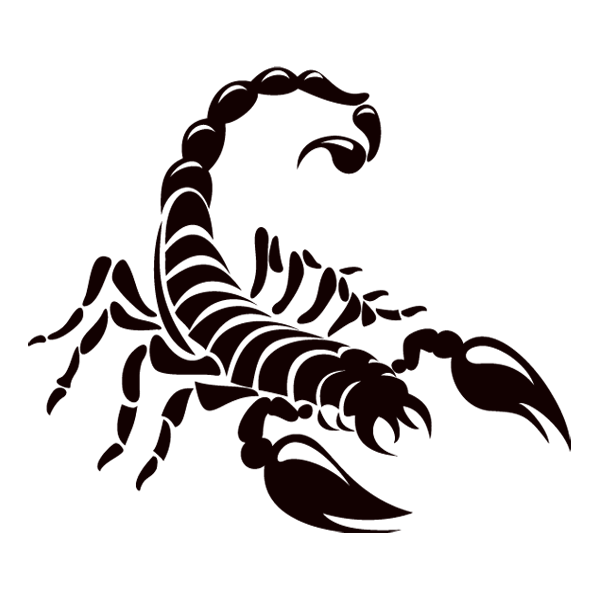
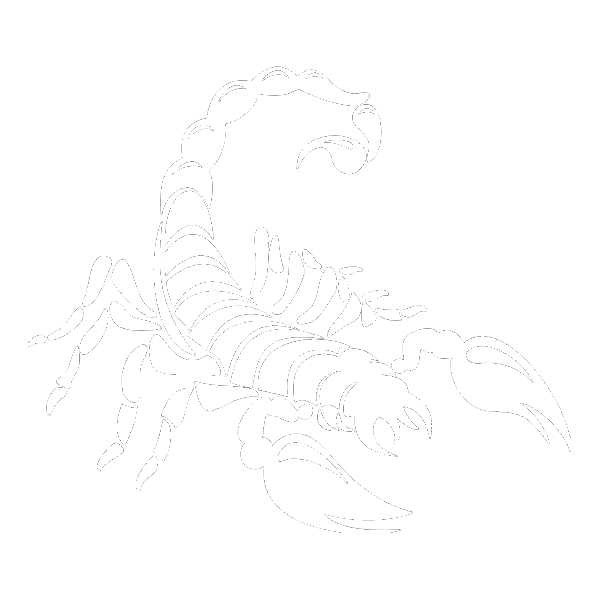
css header, footer, about me, contact, sidebar

Changed region(s): [[0.06, 0.09, 0.96, 0.9], [0.63, 0.75, 0.66, 0.78]]

diff --git a/src/components/main/Contact.js b/src/components/main/Contact.js
@@ -3,29 +3,38 @@ import styles from './contact.css';
 import github from '../../../assets/github.png';
 import email from '../../../assets/mail.png';
 import linkedin from '../../../assets/linkedin.png';
-import face from '../../../assets/face.jpg';
+// import face from '../../../assets/face.jpg';
 
 const Contact = () => {
   return (
     <div className={styles.Contact}>
-      <a href="https://github.com/UncleJerry23" target="blank">
-        <img src={github} />
-        <h2>github.com/UncleJerry23</h2>
-      </a>
-      <a href="https://www.linkedin.com/in/jaredmyhrberg/" target="blank">
-        <img src={email} />
-        <h2>jared.myhrberg@gmail.com</h2>
-      </a>
-      <a href="https://www.linkedin.com/in/jaredmyhrberg/" target="blank">
-        <img src={linkedin} />
-        <h2>linkedin.com/in/jaredmyhrberg/</h2>
-      </a>
-      <a href="https://drive.google.com/file/d/1LsmfQAmLWltdzJFwCH5PdCBtl6EiKkOT/view" target="blank">
-        <img src={face} />
-        <h2>Resume</h2>
-      </a>
+      <section>
+        <a href="https://github.com/UncleJerry23" target="blank">
+          <img src={github} />
+        </a>
+        <a href="https://www.linkedin.com/in/jaredmyhrberg/" target="blank">
+          <img src={linkedin} />
+        </a>
+        <a href="mailto:jared.myhrberg@gmail.com" target="blank">
+          <img src={email} />
+        </a>
+      </section>
+
+      <div>
+        <p>
+          If you&rsquo;d like to hire me for a software position, commission a rad woodworking project or for any other reason please feel free to email me or message me on LinkedIn by using the links to the left.
+        </p>
+        <p>
+          Thanks for stopping by!
+        </p>
+      </div>
     </div>
   );
 };
 
 export default Contact;
+
+
+{/* <a href="https://drive.google.com/file/d/1LsmfQAmLWltdzJFwCH5PdCBtl6EiKkOT/view" target="blank">
+<img src={face} />
+</a> */}

diff --git a/src/components/main/contact.css b/src/components/main/contact.css
@@ -1,29 +1,47 @@
 .Contact {
-  display: flex;
-  flex-direction: column;
-  justify-content: center;
-  width: 100%;
+  display: grid;
+  grid-auto-columns: 10% 1fr;
   height: 100%;
+  width: 100%;
 
-  a {
+  section {
     display: flex;
-    align-items: center;
-    height: 6em;
-    margin: 1em;
-    margin-left: 3em;
-    text-decoration: none;
-    color: black;
+    flex-direction: column;
+    justify-content: center;
+    width: 100%;
+    height: 100%;
 
-    &:hover {
-      transform: scale(1.03);
+    a {
+      display: flex;
+      align-items: center;
+      height: 6em;
+      margin: 1em;
+      margin-left: 3em;
+      text-decoration: none;
+      color: black;
+  
+      &:hover {
+        transform: scaleY(1.1);
+      }
+    }
+  
+    img {
+      height: 5em;
     }
   }
 
-  img {
-    height: 5em;
-  }
+  div{
+    grid-column-start: 2;
+    width: 100%;
+    height: 100%;
+    color: white;
+    display: flex;
+    flex-direction: column;
+    justify-content: space-around;
 
-  h2 {
-    margin-left: 3em;
+    p {
+      font-size: 2em;
+      padding: 2em;
+    }
   }
 }

diff --git a/src/components/header-footer/header.css b/src/components/header-footer/header.css
@@ -6,21 +6,20 @@
   60% { color: #0000FF}
   75% { color: #2E2B5F}
   90% { color: #8B00FF}
-  100% { color: black}
+  100% { color: white}
 }
 
 
 .Header {
   display: flex;
-  align-items: center;
-  justify-content: space-between;
+  flex-direction: column;
 
   div {
     display: flex;
   }
 
   h1 {
-    color: rgb(29, 29, 29);
+    color: rgb(255, 255, 255);
     font-family: 'Open Sans', sans-serif;
     font-size: 4em;
     margin-left: .6em;
@@ -30,16 +29,8 @@
     }
   }
 
-  span {
-    color: purple;
-    font-size: 4em;
-    display: flex;
-    align-items: center;
-    margin-left: .3em;
-  }
-
   h3 {
-    margin-right: 2em;
+    margin-left: 2em;
     font-size: 2em;
     color: rgb(143, 141, 141);
   }

diff --git a/src/components/App.js b/src/components/App.js
@@ -1,4 +1,4 @@
-import React, { useEffect, useState } from 'react';
+import React from 'react';
 import {
   BrowserRouter as Router,
   Switch,
@@ -9,7 +9,6 @@ import styles from './app.css';
 import SideBar from './sidebar/SideBar';
 import AboutMe from './main/AboutMe';
 import Header from './header-footer/Header';
-import Footer from './header-footer/Footer';
 import Projects from './main/Projects';
 import AboutSite from './main/AboutSite';
 import Why from './main/Why';
@@ -38,9 +37,6 @@ export default function App() {
             </Switch>
           </div>
 
-          <div className={styles.Footer}>
-            <Footer />
-          </div>
         </section>
 
         <div className={styles.Sidebar}>

diff --git a/src/components/main/projects.css b/src/components/main/projects.css
@@ -4,6 +4,7 @@
   flex-direction: column;
   justify-content: space-around;
   overflow: scroll;
+  margin-top: 3em;
 
   li {
     list-style: none;
@@ -19,7 +20,7 @@
     }
 
     section {
-      margin-left: 1em;
+      margin-left: 8em;
       display: grid;
       grid-template-rows: 30% 1fr;
     }
@@ -45,8 +46,10 @@
   }
 
   p {
+    width: 80%;
     font-size: 1.5em;
     margin-top: 1em;
+    color: white;
   }
 
 }

diff --git a/src/components/main/about-me.css b/src/components/main/about-me.css
@@ -4,19 +4,21 @@
   display: flex;
   flex-direction: column;
   align-items: center;
+  margin-top: 3em;
   
   section {
-    height: 90vh;
-    width: 120vh;
+    height: 60vh;
+    width: 80vh;
     margin: 1em;
     
 
     div {
       position: relative;
-      top: 2em;
-      left: 2em;
+      top: 1em;
+      left: 1em;
       color: white;
       font-size: 2.5em;
+      color: white;
     }
   }
 

diff --git a/src/components/main/AboutMe.js b/src/components/main/AboutMe.js
@@ -1,10 +1,6 @@
 import React from 'react';
 import styles from './about-me.css';
 import { info } from '../../../data/info';
-import balloon from '../../../assets/balloon.jpg';
-import creator from '../../../assets/creator.jpg';
-import adventure from '../../../assets/adventure.jpg';
-import nerd from '../../../assets/nerd.jpg';
 
 const images = {
   balloon: '../../../assets/balloon.jpg',

diff --git a/src/components/app.css b/src/components/app.css
@@ -8,6 +8,7 @@
   width: 100vw;
   display: grid;
   grid-template-columns: 95% 1fr;
+  background: rgb(0, 0, 0);
 }
 
 .Sidebar {
@@ -18,7 +19,7 @@
   height: 100vh;
   grid-row-start: 1;
   display: grid;
-  grid-template-rows: 13% 1fr 10%;
+  grid-template-rows: 15% 1fr;
   overflow: scroll;
 }
 

diff --git a/src/components/header-footer/Header.js b/src/components/header-footer/Header.js
@@ -17,10 +17,7 @@ const Header = () => {
 
   return (
     <header className={styles.Header} >
-      <div>
-        <h1>jared-Myhrberg: </h1>
-        <span>&#123;</span>
-      </div>
+      <h1>jared-Myhrberg</h1>
       <h3>&gt; {header[location]}</h3>
     </header>
   );

diff --git a/src/services/fetchGithub.js b/src/services/fetchGithub.js
@@ -6,6 +6,7 @@ export const fetchStarredRepos = async() => {
       return json;
     })
     .then(starred => {
+      console.log(starred[0]);
       return Promise.all(starred.map(i => {
         return {
           url: i.html_url,

diff --git a/src/components/sidebar/sideBar.css b/src/components/sidebar/sideBar.css
@@ -11,7 +11,7 @@
   &:hover {
     width: 20vw;
     transform: translate(calc(-20vw + 5vw));
-    background: rgb(255, 234, 45);
+    background: rgb(216, 194, 0);
 
     h2 {
       display: none;
